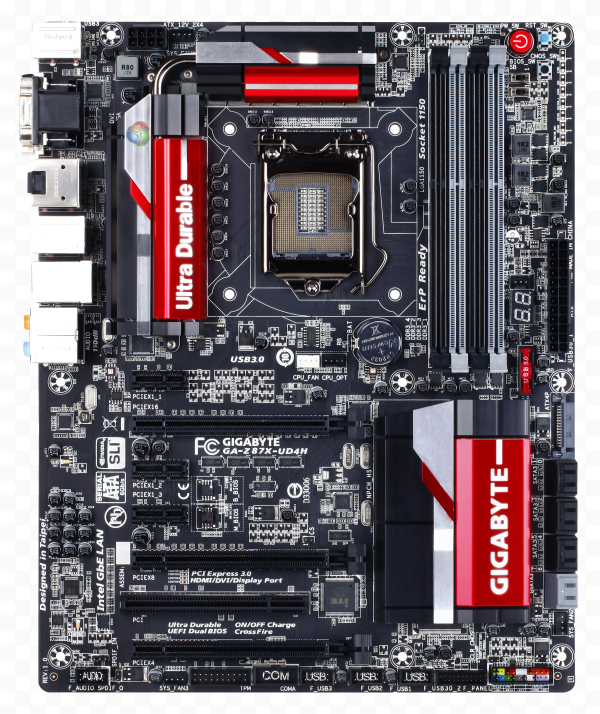
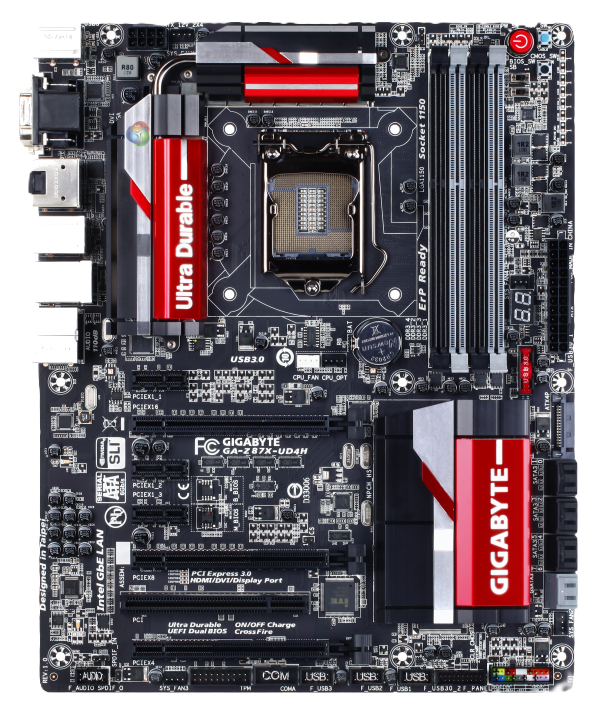
Removed background from motherboard.png.

diff --git a/learningwindow.cpp b/learningwindow.cpp
@@ -34,7 +34,7 @@ LearningWindow::LearningWindow(TestWindow* testWindow, QWidget* parent) :
     ui->caseLabel->setScaledContents(true);
     ui->caseLabel->setToolTip("Computer Case");
 
-    // Motherboard Image
+    // // Motherboard Image
     QPixmap motherboardPixmap(":/images/motherboard.png");
     ui->motherboardLabel->setPixmap(motherboardPixmap);
     ui->motherboardLabel->setScaledContents(true);
